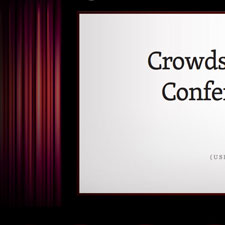
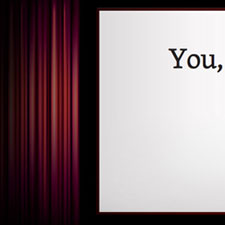
You, the Conference Organizer full article [deploy:live]

diff --git a/bin-static/index.php b/bin-static/index.php
@@ -63,20 +63,24 @@
 		    
     		    <h1 class="phark">Latest Articles</h1>
 	    
-    		    <ul class="no-marker">	
-    		        <li class="home-round-item" style="left: 100px; top: 6px; z-index: 3;">
+    		    <ul class="no-marker">
+					<li class="home-round-item" style="left: 100px; top: 6px; z-index: 4;">
+    				    <a data-tooltip-content="<h1>You, the Conference Organizer</h1><p>Plan your dream conference.</p>" href="/articles/august2011-typefaces/" class="phark phark-link" style="background-image: url(/articles/you-the-conference-organizer/home-thumb.jpg);">You, the Conference Organizer</a>
+    				</li>	
+    		        <li class="home-round-item" style="left: 270px; top: 8px; z-index: 3;">
     				    <a data-tooltip-content="<h1>Typefaces I Used This Month</h1><p>Be adventurous and experiment with new faces, but don&rsquo;t forget about the classics.</p>" href="/articles/august2011-typefaces/" class="phark phark-link" style="background-image: url(/articles/august2011-typefaces/home-thumb.png);">Typefaces I Used This Month</a>
     				</li>
-    		        <li class="home-round-item" style="left: 270px; top: 6px; z-index: 2;">
+    		        <li class="home-round-item" style="left: 430px; top: 20px; z-index: 2;">
     				    <a data-tooltip-content="<h1>Photoshop Clusters</h1><p>An idea for configuring Photoshop.</p>" href="/articles/photoshop-clusters/" class="phark phark-link" style="background-image: url(/articles/photoshop-clusters/home-thumb.jpg);">Photoshop Clusters</a>
     				</li>
-    		        <li class="home-round-item" style="left: 430px; top: 20px; z-index: 1;">
+    		        <li class="home-round-item" style="left: 600px; top: 8px; z-index: 1;">
     				    <a data-tooltip-content="<h1>Why I Love the Netflix Redesign</h1><p>Netflix should be applauded for their bold redesign.</p>" href="/articles/why-i-love-the-netflix-redesign/" class="phark phark-link" style="background-image: url(/articles/why-i-love-the-netflix-redesign/netflix-home.png);">Why I Love the Netflix Redesign</a>
-    				</li>
-    		        <li class="home-round-item" style="left: 600px; top: 12px; z-index: 2;">
+					</li>
+					<?php /* ?>		
+    				<li class="home-round-item" style="left: 600px; top: 12px; z-index: 2;">
     				    <a data-tooltip-content="<h1>Now I Have RSS</h1><p>Happy?</p>" href="/articles/now-i-have-rss/" class="phark phark-link" style="background-image: url(/articles/now-i-have-rss/now-i-have-rss-home.png);">Now I Have RSS</a>
     				</li>
-    				<?php /* ?>			
+    					
     				<li class="home-round-item" style="left: 600px; top: 12px; z-index: 2;">
     				    <a data-tooltip-content="<h1>Five</h1><p>Wow. After five long years, it feels great to have a new site.</p>" href="/articles/five/" class="phark phark-link" style="background-image: url(/articles/five/home-five.png);">Five</a>
     				</li>

diff --git a/bin-static/articles/index.php b/bin-static/articles/index.php
@@ -37,6 +37,18 @@
             	</ol><?php '/.pagination' */ ?>
             	
             	<ol class="articles no-marker">
+					<li>
+            	        <article>
+            	            <header>
+            	                <h1><a href="/articles/you-the-conference-organizer/">You, the Conference Organizer</a></h1>
+            	            </header>
+            	            <p>Plan your dream conference.</p>
+            	            <ul class="meta easy-clearing no-marker">
+            	                <li class="permalink"><a href="/articles/you-the-conference-organizer/"><time datetime="2011-09-30T06:31:07">Sep 30, 2011</time></a></li>
+            	                <li class="comments"><a href="/articles/you-the-conference-organizer/#disqus_thread" data-disqus-identifier="you-the-conference-organizer"></a></li>
+            	            </ul><!-- .meta -->
+            	        </article>        	        
+        	        </li>
             	    <li>
             	        <article>
             	            <header>

diff --git a/bin-static/articles/you-the-conference-organizer/index.php b/bin-static/articles/you-the-conference-organizer/index.php
@@ -244,7 +244,7 @@
         	        <header>
         	            <h2>Article Info</h2>
         	        </header>
-        	        <time datetime="2011-08-27T11:51:33">Published August 27, 2011 at 11:51 <abbr title="Post Meridian">PM</abbr></time>
+        	        <time datetime="2011-09-30T06:31:07">Published September 27, 2011 at 6:31 <abbr title="Ante Meridian">AM</abbr></time>
     	        </section><!-- /#article-info -->
     	        
     	        
